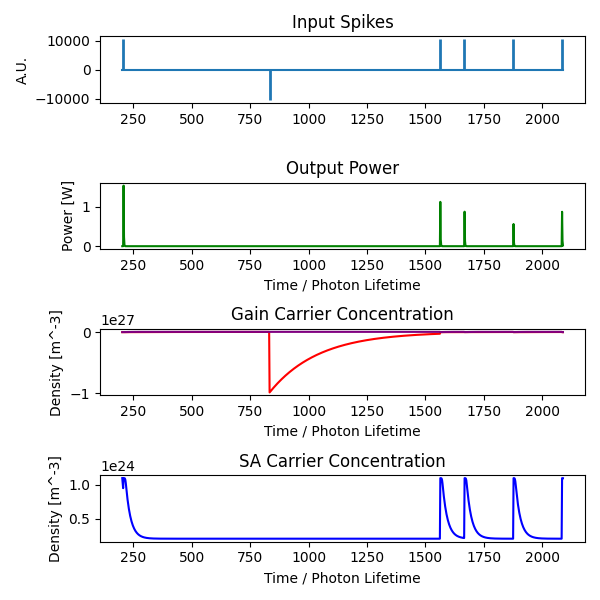
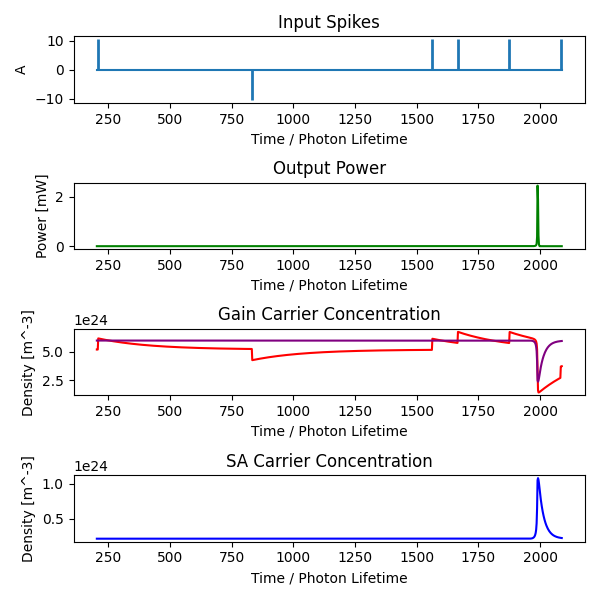
refactoring and stuff

diff --git a/laser/vcsel_rate.py b/laser/vcsel_rate.py
@@ -8,6 +8,11 @@ import diffrax
 from diffrax import diffeqsolve, ODETerm, SaveAt
 from yamada import Yamada
 from tqdm import tqdm
+def default_steady_state():
+    """
+    Given a default set of parameters, save the steady state values
+    """
+    return (3.4312801739727607, 3.0971999999999262, 0)
 def default_vcsel_parameters():
     """
     VCSEL parameters copied from the paper
@@ -118,10 +123,13 @@ class VCSEL(Yamada):
             d_y = d_G, d_Q, d_I
             return d_y
         return f
-    def sim(self, start_time, end_time, step):
+    def sim(self, inputs, start_time, end_time, step):
         terms = ODETerm(self.simple_yamada())
+        output_spikes = format_inputs(self.params, inputs)
+        forcing_terms_and_parameters = get_vcsel_yamada_model(self.params, output_spikes)
         assert(isinstance(terms, ODETerm))
         assert(isinstance(self.initial_state, tuple))
+
         saveat = SaveAt(ts=jnp.linspace(start_time, end_time, 1000))
         stepsize_controller = diffrax.PIDController(rtol=1e-8, atol=1e-8, dtmax=0.1)
         sol = diffeqsolve(terms,
@@ -130,96 +138,81 @@ class VCSEL(Yamada):
                           end_time,
                           step,
                           self.initial_state,
-                          args=self.params,
+                          args=forcing_terms_and_parameters,
                           saveat=saveat,
                           max_steps=100000,
                           stepsize_controller=stepsize_controller)
         self.sol = sol
-    def plot(self, name="vcsel", vc_sel_parameters=None, spikes=((0, 0)), plotting_steps=1):
+        self.spikes = output_spikes
+    def plot(self, name="vcsel", vc_sel_parameters=None, plotting_steps=1):
         sol = self.sol
-        if (vc_sel_parameters):
-            tau_A = vc_sel_parameters[5]
-            tau_S = vc_sel_parameters[6]
-            tau_ph = vc_sel_parameters[7]
-            gamma_a = vc_sel_parameters[3]
-            gamma_s = vc_sel_parameters[4]
-            g_a = vc_sel_parameters[8]
-            g_s = vc_sel_parameters[9]
-            I_a = vc_sel_parameters[-2]
-            I_s = vc_sel_parameters[-1]
-            Va = vc_sel_parameters[1]
-            Vs = vc_sel_parameters[2]
-            n_oa = vc_sel_parameters[10]
-            n_os = vc_sel_parameters[11]
-            beta = vc_sel_parameters[13]
-            Br = vc_sel_parameters[12]
-            nu = vc_sel_parameters[14]
-            lambda_ = vc_sel_parameters[0]
-            # plotting input spikes
-            min_value = float(jnp.min(sol.ts))
-            max_value = float(jnp.max(sol.ts))
-            step_size = plotting_steps
+        spikes = self.spikes
+        vc_sel_parameters = self.params
+       
+        tau_A = vc_sel_parameters[5]
+        tau_S = vc_sel_parameters[6]
+        tau_ph = vc_sel_parameters[7]
+        gamma_a = vc_sel_parameters[3]
+        gamma_s = vc_sel_parameters[4]
+        g_a = vc_sel_parameters[8]
+        g_s = vc_sel_parameters[9]
+        I_a = vc_sel_parameters[-2]
+        I_s = vc_sel_parameters[-1]
+        Va = vc_sel_parameters[1]
+        Vs = vc_sel_parameters[2]
+        n_oa = vc_sel_parameters[10]
+        n_os = vc_sel_parameters[11]
+        beta = vc_sel_parameters[13]
+        Br = vc_sel_parameters[12]
+        nu = vc_sel_parameters[14]
+        lambda_ = vc_sel_parameters[0]
+        # plotting input spikes
+        min_value = float(jnp.min(sol.ts))
+        max_value = float(jnp.max(sol.ts))
+        step_size = plotting_steps
 
-            fig, (ax1, ax2, ax3, ax4) = plt.subplots(4, 1, figsize=(6, 6))
-            ax3.plot(sol.ts, sol.ys[0]/(tau_ph * gamma_a * g_a) + n_oa, label="Gain Carrier Concentration", color="red")
-            ax3.set_title('Gain Carrier Concentration')
-            ax3.set_xlabel('Time / Photon Lifetime')
-            ax3.set_ylabel('Density [m^-3]')
-            # G_thresh_eq = (tau_S*tau_ph*gamma_a*g_a*(n_os/tau_S - I_s/(1.6e-19*Vs))) + 1
-            # G_thresh_eq_to_na = G_thresh_eq
+        fig, (ax1, ax2, ax3, ax4) = plt.subplots(4, 1, figsize=(6, 6))
+        ax3.plot(sol.ts, sol.ys[0]/(tau_ph * gamma_a * g_a) + n_oa, label="Gain Carrier Concentration", color="red")
+        ax3.set_title('Gain Carrier Concentration')
+        ax3.set_xlabel('Time / Photon Lifetime')
+        ax3.set_ylabel('Density [m^-3]')
+        # G_thresh_eq = (tau_S*tau_ph*gamma_a*g_a*(n_os/tau_S - I_s/(1.6e-19*Vs))) + 1
+        # G_thresh_eq_to_na = G_thresh_eq
 
-            ax3.plot(sol.ts, [(i + 1)/(tau_ph * gamma_a * g_a) + n_oa for i in sol.ys[1]], label="Threshold Level", color="purple")
+        ax3.plot(sol.ts, [(i + 1)/(tau_ph * gamma_a * g_a) + n_oa for i in sol.ys[1]], label="Threshold Level", color="purple")
 
-            ax4.plot(sol.ts, -(sol.ys[1]/(tau_ph * gamma_s * g_s) - n_oa), label="SA Carrier Concentration", color="blue")
-            ax4.set_title('SA Carrier Concentration')
-            ax4.set_xlabel('Time / Photon Lifetime')
-            ax4.set_ylabel('Density [m^-3]')
+        ax4.plot(sol.ts, -(sol.ys[1]/(tau_ph * gamma_s * g_s) - n_oa), label="SA Carrier Concentration", color="blue")
+        ax4.set_title('SA Carrier Concentration')
+        ax4.set_xlabel('Time / Photon Lifetime')
+        ax4.set_ylabel('Density [m^-3]')
 
-            ax2.plot(sol.ts, (sol.ys[2]*Va/(tau_A * gamma_a * g_a))*(nu*gamma_a*1.98e-25)/(tau_ph*lambda_), label="Laser Output Power", color="green")
-            ax2.set_title('Output Power')
-            ax2.set_xlabel('Time / Photon Lifetime')
-            ax2.set_ylabel('Power [W]')
+        ax2.plot(sol.ts, (sol.ys[2]*Va/(tau_A * gamma_a * g_a))*(nu*gamma_a*1.98e-25)/(tau_ph*lambda_)*1000, label="Laser Output Power", color="green")
+        ax2.set_title('Output Power')
+        ax2.set_xlabel('Time / Photon Lifetime')
+        ax2.set_ylabel('Power [mW]')
 
-            for amplitude, time in spikes:
-                ax1.vlines(x=time, ymin=0, ymax=amplitude, linewidth=2)
-            ax1.plot(sol.ts, [0]* len(sol.ts))
-            ax1.set_title('Input Spikes')
-            ax2.set_xlabel('Time / Photon Lifetime')
-            ax1.set_ylabel('A.U.')
-
-            # Adjust layout
-            plt.tight_layout()
-            plt.savefig(f"{name}_save_quantities.png")
-            # plt.show()
-        else:
-            plt.plot(sol.ts, sol.ys[0], label="Gain")
-            plt.plot(sol.ts, sol.ys[1], label="Absorption")
-            plt.plot(sol.ts, sol.ys[2], label="Laser Intensity")
-            plt.legend()
-
-            plt.savefig(f"{name}_save_variables.png")
-            # plt.show()
+        for amplitude, time in spikes:
+            ax1.vlines(x=time, ymin=0, ymax=amplitude, linewidth=2)
+        ax1.plot(sol.ts, [0]* len(sol.ts))
+        ax1.set_title('Input Spikes')
+        ax1.set_xlabel('Time / Photon Lifetime')
+        ax1.set_ylabel('A')
+        # Adjust layout
+        fig.tight_layout()
+        fig.savefig(f"{name}_save_quantities.png")
+        # plt.show()
 def experiment_1():
     # NOTE spiking power is arbitrary and unclear right now and noise is virtually ignored
-    A = 1
+    A = 1 # this is the current in amperes
     spikes = ((A, 208), (-A, 833), (A, 1562.5), (A, 1666), (A, 1875), (A, 2083))
-    # spikes = ((0, 0),)
-    output_spikes = format_inputs(default_vcsel_parameters(), spikes)
-    yamada_parameters = get_vcsel_yamada_model(default_vcsel_parameters(), spikes=output_spikes)
-    # print(yamada_parameters)
-    laser = VCSEL(params=yamada_parameters, initial_state=(4, 3, 0.))
-    laser.sim(0, 3125, .1)
-    laser.plot(vc_sel_parameters=default_vcsel_parameters(), spikes=output_spikes)
+    laser = VCSEL(params=default_vcsel_parameters(), initial_state=default_steady_state())
+    laser.sim(spikes, 0, 3125, .1)
+    laser.plot()
 def experiment_2():
     A = 6
     spikes = ((-A, 260), (-A, 900), (-A, 1562), (-A, 2100), (-A, 2700), (A, 520), (A, 1041), (A, 1562), (A, 2020), (A, 2604))
-    # spikes = ((0, 0),)
-    output_spikes = format_inputs(default_vcsel_parameters(), spikes)
-    # print(output_spikes)
-    yamada_parameters = get_vcsel_yamada_model(default_vcsel_parameters(), spikes=output_spikes)
-    # print(yamada_parameters)
-    laser = VCSEL(params=yamada_parameters, initial_state=(0, 0, 0.))
-    laser.sim(0, 3125, .1)
-    laser.plot(default_vcsel_parameters(), spikes=output_spikes)
+    laser = VCSEL(params=default_vcsel_parameters(), initial_state=default_steady_state())
+    laser.sim(spikes, 0, 3125, .1)
+    laser.plot()
 if __name__ == "__main__":
     experiment_1()

diff --git a/laser/normalize_layer.py b/laser/normalize_layer.py
@@ -4,12 +4,14 @@ import matplotlib.pyplot as plt
 
 class Normalize(NetworkLayer):
     def __init__(self, 
+                 photodiode_R,
                  vcsel_params,
-                 time_delay=100,
-                 A = 0.1):
+                 time_delay=1000,
+                 A = 10):
         self.params = vcsel_params
         self.time_delay = time_delay
         self.A = A
+        self.R = photodiode_R
     def _time_range(self, times, epsilon = 10):
         """
         given a list of times -- times
@@ -21,14 +23,27 @@ class Normalize(NetworkLayer):
     
     def forward(self, X):
         """
-        Recieves a y's and extracts
+        Recieves a y's and performs weighting while 
         """
         intensity_output = X.ys[2] # intensity
         times = X.ts # time step information
         maximum, minimum = self._time_range(times, epsilon=0)
         outputs = [] # conserve original time frame
+
+        def to_power(Nph):
+            # uses conversion
+            tau_A = self.params[5]
+            tau_ph = self.params[7]
+            gamma_a = self.params[3]
+            g_a = self.params[8]
+            Va = self.params[1]
+            nu = self.params[14]
+            lambda_ = self.params[0]
+
+            return (Nph*Va/(tau_A * gamma_a * g_a))*(nu*gamma_a*1.98e-25)/(tau_ph*lambda_)
         for e, i in enumerate(intensity_output):
-            outputs.append((self.A*i, float(times[e]) + self.time_delay))
+            # takes intensity and converts it to current using photodiode R*P_in = I_ph
+            outputs.append((self.A*self.R*to_power(i), float(times[e]) + self.time_delay))
         self.plotoutputs = format_inputs(self.params, outputs)
         return self.plotoutputs
     def plot(self, name="", parameters=None, spikes=None):
@@ -38,8 +53,8 @@ class Normalize(NetworkLayer):
         for (A, T) in self.plotoutputs:
             amplitudes.append(A)
             times.append(T)
-        plt.plot(times, amplitudes)
+        ax1.plot(times, amplitudes)
         ax1.set_title('Normalized Inputs')
         ax1.set_xlabel('Time / Photon Lifetime')
-        ax1.set_ylabel('a.u. ')
-        plt.savefig(f"{name}_normalized_inputs.png")
+        ax1.set_ylabel('Amps ')
+        fig.savefig(f"{name}_normalized_inputs.png")

diff --git a/laser/vcsel_network.py b/laser/vcsel_network.py
@@ -1,7 +1,7 @@
 from vcsel_neuron import SpikingNeuron
 from normalize_layer import Normalize
 from vcsel_rate import default_vcsel_parameters
-from vcsel_rate import format_inputs, get_vcsel_yamada_model
+from vcsel_rate import format_inputs, get_vcsel_yamada_model, default_steady_state
 class SpikingNetwork():
     """
     A class defining a spiking neural network.
@@ -9,15 +9,15 @@ class SpikingNetwork():
     def __init__(self):
         self.network_layers = []
 
-    def add_input(self, neuron):
+    def add_input(self, neuron, name):
         self.network_layers.append(neuron)
+        self.network_layers[-1].name = name
     def forward(self, input, numerical_outputs=False, debug_plot = True):
         forwarded_inputs = input
-        
         for idx, l in enumerate(self.network_layers):
             solution = l.forward(forwarded_inputs)
             if (debug_plot):
-                l.plot(name=f"layer_{idx}", parameters=default_vcsel_parameters(), spikes=forwarded_inputs)
+                l.plot(name=f"layer_{idx}")
             forwarded_inputs = solution
         if (numerical_outputs):
             return forwarded_inputs.ys
@@ -25,17 +25,15 @@ class SpikingNetwork():
     
 def one_network():
     DEFAULTPARAMS = default_vcsel_parameters()
-    A = 1000
+    A = 1 # this seems to be OFF for some reason
     spikes = [(A, 208), (-A, 833), (A, 1562.5), (A, 1666), (A, 1875), (A, 2083)]
     # format inputs for fun
-    test_inputs = format_inputs(DEFAULTPARAMS, spikes)
-    yamada_parameters = get_vcsel_yamada_model(DEFAULTPARAMS, spikes=test_inputs)
+    test_inputs = spikes
 
-    neuron = SpikingNeuron(yamada_parameters)
     network = SpikingNetwork()
-    network.add_input(neuron)
-    network.add_input(Normalize(DEFAULTPARAMS))
-    network.add_input(SpikingNeuron(yamada_parameters))
+    network.add_input(SpikingNeuron(DEFAULTPARAMS, bias=default_steady_state()), name="neuron1")
+    network.add_input(Normalize(1, DEFAULTPARAMS), name="normalizingLayer2")
+    network.add_input(SpikingNeuron(DEFAULTPARAMS, bias=default_steady_state()), name="neuron2")
     outputs = network.forward(test_inputs)
 
 

diff --git a/laser/vcsel_neuron.py b/laser/vcsel_neuron.py
@@ -4,7 +4,7 @@ class SpikingNeuron(NetworkLayer):
     """
     A wrapper defining a singular spiking neuron
     """
-    def __init__(self, parameters, bias=(0, 0, 0), step_size=0.1):
+    def __init__(self, parameters, bias=(0, 0, 0), step_size=0.1, name=""):
         """
         inputs - a list of inputs that can be transferred 
         outputs - a list of outputs that can be transferred to other spiking neurons
@@ -12,6 +12,7 @@ class SpikingNeuron(NetworkLayer):
         self.parameters = parameters
         self.laser = VCSEL(params=parameters, initial_state=bias) # define a laser item
         self.step_size = step_size
+        self.name = name
     def _time_range(self, times, epsilon = 10):
         """
         given a list of times -- times
@@ -25,7 +26,7 @@ class SpikingNeuron(NetworkLayer):
         Given a list of inputs at X, run a simulation
         """
         start, end = self._time_range(X, epsilon=5)
-        self.laser.sim(start, end, self.step_size)
+        self.laser.sim(X, start, end, self.step_size)
         return self.laser.sol
-    def plot(self, name, parameters, spikes=[(0, 0)]):
-        return self.laser.plot(name=name, vc_sel_parameters=parameters, spikes=spikes)
+    def plot(self, name):
+        return self.laser.plot(name=name)

diff --git a/laser/yamada.py b/laser/yamada.py
@@ -65,7 +65,7 @@ class Yamada():
         plt.show()
 
 if __name__ == "__main__":
-    spikes = ((10, 20), (-10, 40))
-    yamada = Yamada(params=(0.1, 0.02, 0.4, 0.02, 0.5, 0.5, 0, spikes), initial_state=(0., 0., 0.))
-    yamada.sim(None, 0, 140, .1)
+    spikes = ((-10, 20), (10, 40), (10, 50), (10, 80))
+    yamada = Yamada(params=(4.3, 3.52, 1.8, .05, 0.06, 0.06, 0, spikes), initial_state=(3, 3, 0))
+    yamada.sim(0, 140, .1)
     yamada.plot()

diff --git a/laser/network_layer.py b/laser/network_layer.py
@@ -1,5 +1,5 @@
 class NetworkLayer(object):
-    def __init__(self):
-        pass
+    def __init__(self, name):
+        self.name = name
     def forward(self, X):
         raise Exception("Not Implemented Exception")
